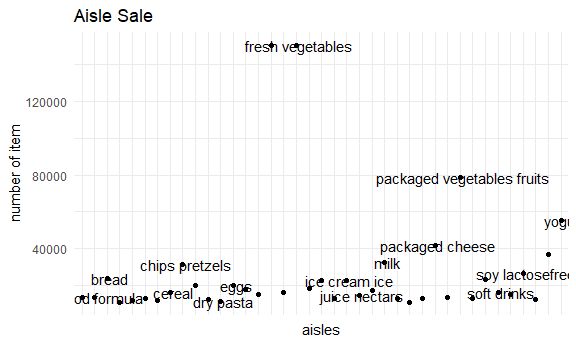
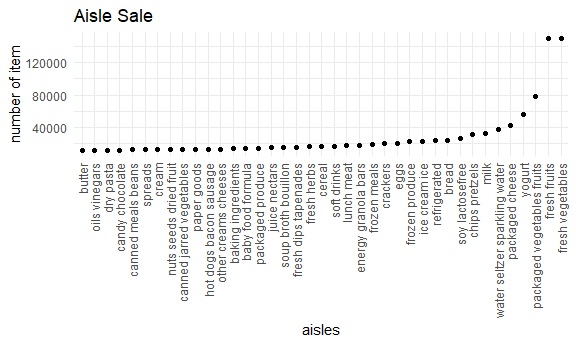
Problem 2 (question for the last part)

diff --git a/homework3.md b/homework3.md
@@ -58,6 +58,10 @@ data("instacart")
     arrange(desc(num))
     
  aisels_df2 %>% 
+   mutate(
+     aisle = factor(aisle),
+     aisle = fct_reorder(aisle, num)
+   ) %>% 
  ggplot(aes(x = aisle, y = num)) + 
   geom_point() + 
   labs(
@@ -65,8 +69,7 @@ data("instacart")
     x = "aisles",
     y = "number of item",
     ) +
-    geom_text(label = pull(aisels_df2, aisle), nudge_x = 0.25, nudge_y = 0.25, check_overlap = T)+
-   theme(axis.text.x=element_blank())
+   theme(axis.text.x=element_text(angle = 90, vjust = 0.5, hjust = 1))
 ```
 
 <img src="homework3_files/figure-gfm/unnamed-chunk-2-1.png" width="90%" />
@@ -131,5 +134,92 @@ hour_df %>%
 | Coffee Ice Cream |  13.77 |  14.32 |   15.38 |     15.32 |    15.22 |  12.26 |    13.83 |
 | Pink Lady Apples |  13.44 |  11.36 |   11.70 |     14.25 |    11.55 |  12.78 |    11.94 |
 
-There are 134 aisles and the fresh vegetables aisle is the where most
+There are 134 aisles and the *fresh vegetables aisle* is the where most
 items are ordered from.
+
+# Problem 2
+
+``` r
+data("brfss_smart2010")
+#clean variable names
+brfss_smart2010_1=
+ brfss_smart2010 %>% 
+  rename(
+    State = Locationabbr,
+    Location = Locationdesc
+  )
+
+#subset a new data set brfss_df_1
+brfss_df_1 = 
+  brfss_smart2010_1 %>% 
+  filter(Topic == "Overall Health") %>% 
+  filter(Response %in% c("Excellent","Very good","Good","Fair","Poor")) %>% 
+  mutate(Response = as.factor(Response)) %>% 
+  mutate(Response = factor(Response, levels = c("Poor", "Fair", "Good","Very good","Excellent")))
+
+#In 2002, which states were observed at 7 or more locations? What about in 2010?
+#2002
+#group by doesn't work
+ brfss_df_2 = 
+   brfss_df_1 %>% 
+   filter(Year == 2002) %>% 
+   group_by(State) %>%
+  summarize(loc_num = n())
+
+brfss_df_2 = 
+  brfss_df_1 %>% 
+  filter(Year == 2002) %>% 
+  group_by(State) %>%
+  summarize(loc_num = n())%>% 
+  filter(loc_num >= 7)
+
+#2010
+brfss_df_3 = 
+  brfss_df_1 %>% 
+  filter(Year == 2010) %>% 
+  group_by(State) %>%
+  summarize(loc_num = n())%>% 
+  filter(loc_num >= 7)
+#states in 2002
+states_2002 = pull(brfss_df_2,State)
+
+states_2010 = pull(brfss_df_3,State)
+
+#answer only Excellent
+brfss_df_4 = 
+  brfss_df_1 %>% 
+  filter(Response == "Excellent") %>% 
+  group_by(Year,State) %>% 
+mutate(
+  mean_value = mean(Data_value,na.rm = T)) %>% 
+  select(Year, State, mean_value) %>% 
+  distinct() %>% 
+  arrange(Year)
+ 
+#plot
+brfss_df_4 %>% 
+  ggplot(aes(x = Year, y = mean_value, color = State))+
+  geom_line()+
+  theme(legend.position = "right")
+```
+
+<img src="homework3_files/figure-gfm/unnamed-chunk-3-1.png" width="90%" />
+
+``` r
+#Make a two-panel plot showing, for the years 2006, and 2010, distribution of data_value for responses (“Poor” to “Excellent”) among locations in NY State
+ 
+
+brfss_df_5 =
+  brfss_df_1 %>% 
+  filter(Year %in% c(2006,2010)) %>% 
+  filter(State == "NY")
+
+
+brfss_df_5 %>% 
+ggplot(aes(x = Location , y = Data_value))+
+  geom_point()+
+  facet_grid(.~ Year)+
+   theme(axis.text.x=element_text(angle = 60, vjust = 0.5, hjust = 1))# response?
+```
+
+<img src="homework3_files/figure-gfm/unnamed-chunk-3-2.png" width="90%" />
